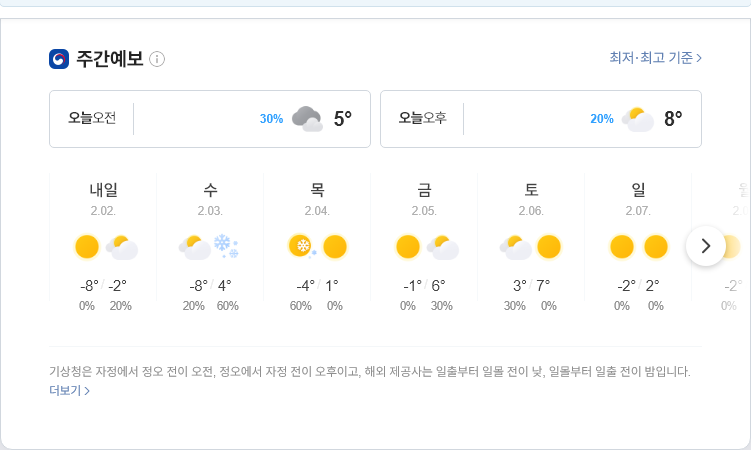
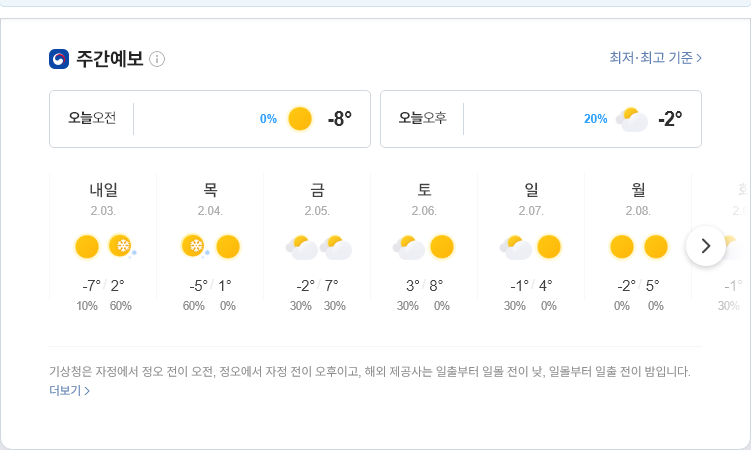
update result

diff --git a/README.md b/README.md
@@ -1,5 +1,5 @@
-##  2021-02-01 16:02:42   월요일 
-##### 날씨   -   어제보다 3° 낮아요흐림  
+##  2021-02-02 05:54:43   화요일 
+##### 날씨   -   어제보다 12° 낮아요맑음  
 <center><img src="../img/naver_weather_week.png"></center>
 ----
 ----
@@ -13,17 +13,17 @@
 ##### 세계
 <table border="1" bordercolor="blue" align = "center" >
 <tr align = "right" > <td>Item</td><td>Point</td><td>Diff</td><td>Rate</td><td>Buy</td><td>Sell</td><td>...</td>  </tr>
-<tr align = "right" > <td>DOW</td><td>29,982.62</td><td>-620.74</td><td><font size="3" color="blue" >-2.03%</font></td><td><font size="3" color="black">0</font></td><td><font size="3" color="black">0</font></td><td>0</td>  </tr>
-<tr align = "right" > <td>NASDAQ</td><td>13,070.7</td><td>-266.46</td><td><font size="3" color="blue" >-2.0%</font></td><td><font size="3" color="black">0</font></td><td><font size="3" color="black">0</font></td><td>0</td>  </tr>
-<tr align = "right" > <td>S&P</td><td>3,714.24</td><td>-73.14</td><td><font size="3" color="blue" >-1.93%</font></td><td><font size="3" color="black">0</font></td><td><font size="3" color="black">0</font></td><td>0</td>  </tr>
-<tr align = "right" > <td>SHANHAI</td><td>3,505.14</td><td>22.07</td><td><font size="3" color="red" >0.63%</font></td><td><font size="3" color="black">0</font></td><td><font size="3" color="black">0</font></td><td>0</td>  </tr>
-<tr align = "right" > <td>INDIA</td><td>46,961.75</td><td>675.98</td><td><font size="3" color="red" >1.46%</font></td><td><font size="3" color="black">0</font></td><td><font size="3" color="black">0</font></td><td>0</td>  </tr>
+<tr align = "right" > <td>DOW</td><td>30,258.37</td><td>275.75</td><td><font size="3" color="red" >0.92%</font></td><td><font size="3" color="black">0</font></td><td><font size="3" color="black">0</font></td><td>0</td>  </tr>
+<tr align = "right" > <td>NASDAQ</td><td>13,422.09</td><td>351.39</td><td><font size="3" color="red" >2.69%</font></td><td><font size="3" color="black">0</font></td><td><font size="3" color="black">0</font></td><td>0</td>  </tr>
+<tr align = "right" > <td>S&P</td><td>3,779.59</td><td>65.35</td><td><font size="3" color="red" >1.76%</font></td><td><font size="3" color="black">0</font></td><td><font size="3" color="black">0</font></td><td>0</td>  </tr>
+<tr align = "right" > <td>SHANHAI</td><td>3,505.28</td><td>22.22</td><td><font size="3" color="red" >0.64%</font></td><td><font size="3" color="black">0</font></td><td><font size="3" color="black">0</font></td><td>0</td>  </tr>
+<tr align = "right" > <td>INDIA</td><td>48,600.61</td><td>231.0</td><td><font size="3" color="red" >5.0%</font></td><td><font size="3" color="black">0</font></td><td><font size="3" color="black">0</font></td><td>0</td>  </tr>
 </table>
 ----
 ##### 시장
 <table border="1" bordercolor="blue" align = "center" >
 <tr align = "right" > <td>Item</td><td>Price</td><td>Diff</td><td>Rate</td><td>Buy</td><td>Sell</td><td>...</td>  </tr>
-<tr align = "right" > <td>USD</td><td>1,116.0</td><td>-1.0</td><td><font size="3" color="blue">-0.09%</font></td><td><font size="3" color="black">1,110</font></td><td><font size="3" color="black">0</font></td><td>0</td>  </tr>
+<tr align = "right" > <td>USD</td><td>1,119.0</td><td>2.0</td><td><font size="3" color="red">0.18%</font></td><td><font size="3" color="black">1,110</font></td><td><font size="3" color="black">0</font></td><td>0</td>  </tr>
 <tr align = "right" > <td>WTI</td><td>52.2</td><td>-0.14</td><td><font size="3" color="blue">-0.26%</font></td><td><font size="3" color="black">29.0</font></td><td><font size="3" color="black">0</font></td><td>0</td>  </tr>
 <tr align = "right" > <td>GOLD</td><td>1,847.0</td><td>9.4</td><td><font size="3" color="red">0.51%</font></td><td><font size="3" color="black">0</font></td><td><font size="3" color="black">0</font></td><td>0</td>  </tr>
 </table>
